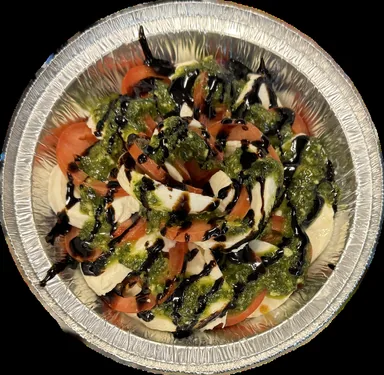
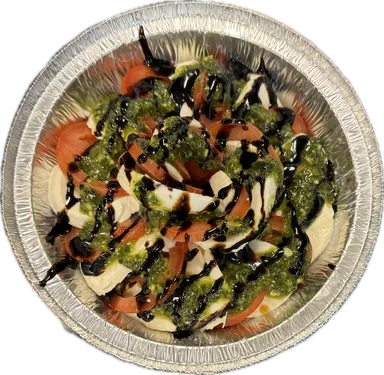
Verify complete menu image derivatives before release

Changed region(s): [[0.0, 0.0, 1.0, 1.0]]

diff --git a/kb/HANDOFF.md b/kb/HANDOFF.md
@@ -103,6 +103,6 @@ Managed current/previous recovery images follow the existing retention policy.
 
 Normal delivery is accepted; protected PR3 synchronized the normal site at fa503f35914be145ce87d20c28e58967d0054c01. This branch intentionally adds authentic menu-item photos. Do not merge this product variation into main or abdul-dev; both retain the accepted text-only item menu.
 
-All 147 Toast rows and17 categories remain intact.72 rows have supported photos, derived from49 original food images into50 WebP files (1,171,738 bytes total).75 rows remain without a sufficiently supported photo. Shared bread/portion variants and inferred matches are documented; photos do not prove exact ingredients or dietary suitability. Visible notes identify material serving variations. Six new originals came from the business Instagram and matching Yelp location. Private provenance and the delivered147-row gallery record source URLs, confidence and reasons. Public mapping: app/src/menu-photos.json; final dinner crop is tighter than the library's suggested crop to exclude the beverage edge.
+All 147 Toast rows and17 categories remain intact.72 rows have supported photos, derived from49 original food images into50 WebP files (1,217,538 bytes total).75 rows remain without a sufficiently supported photo. Shared bread/portion variants and inferred matches are documented; photos do not prove exact ingredients or dietary suitability. Visible notes identify material serving variations. Six new originals came from the business Instagram and matching Yelp location. Private provenance and the delivered147-row gallery record source URLs, confidence and reasons. Public mapping: app/src/menu-photos.json; final dinner crop is tighter than the library's suggested crop to exclude the beverage edge.
 
 The expanded57-original library was delivered once and verified at https://sidehustle2026.slack.com/archives/C0C0J6RB8KT/p1792352055837829. Previous normal package remains historical. Local source/content and container checks passed; desktop1280 and mobile390/320 renders inspected, including narrow text enlargement. Live publication and independent focused review are the next acceptance gates; do not claim this variation finished before those records are added.
